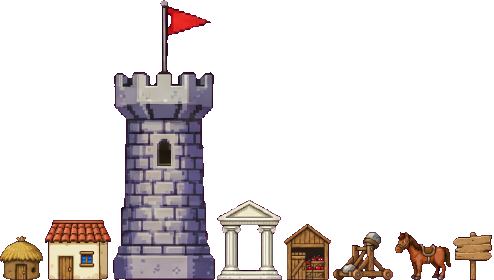
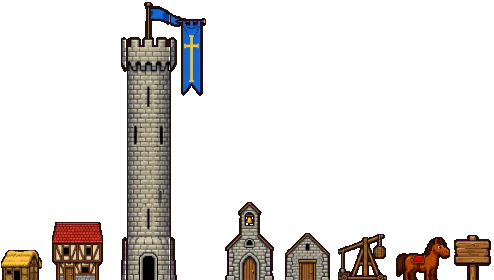
Medieval era art: hero1, Pikemen raider1, town props1
- hero1.png redrawn at 64x66: medieval foot soldier with sword wind-up and slash frames
- raider1.png: new Pikemen sprites
- props1.png: thatched cottage, half-timbered house, castle keep with banner, chapel, barn, trebuchet
- sheet cell widths are now read from each image, so 50px and 64px hero sheets both work

Claude-Session: https://claude.ai/code/session_01WpNNjGwHMrt9LhtBqQYUhi

Changed region(s): [[0.0, 0.0, 1.0, 1.0]]

diff --git a/index.html b/index.html
@@ -1075,7 +1075,8 @@ for (let e = 1; e <= 4; e++) {
   ATLAS['hero' + e] = { ...ATLAS.hero, cw: 50, ax: 25, src: `assets/hero${e}.png` };
   ATLAS['raider' + e] = { ...ATLAS.raider, src: `assets/raider${e}.png` };
 }
-for (const k in ATLAS) { const a = ATLAS[k]; a.img = new Image(); a.img.onload = () => { a.ok = true; }; a.img.src = a.src; }
+// cell width comes from the sheet itself, so redrawn 64px era sheets and older 50px ones both work
+for (const k in ATLAS) { const a = ATLAS[k]; a.img = new Image(); a.img.onload = () => { const n = Object.keys(a.f).length; if (a.img.width % n === 0) { a.cw = a.img.width / n; a.ax = a.cw / 2; } a.ok = true; }; a.img.src = a.src; }
 const TILE_M = {"grass":{"x":0,"w":32,"h":32},"earth":{"x":32,"w":32,"h":32},"plank":{"x":64,"w":32,"h":18},"canopy":{"x":96,"w":32,"h":32},"trunk":{"x":128,"w":32,"h":32},"bridge":{"x":160,"w":32,"h":42},"stone":{"x":192,"w":32,"h":32},"battlement":{"x":224,"w":32,"h":32}};
 const PROP_M = {"hut":{"x":0,"w":43,"h":44},"house":{"x":45,"w":66,"h":60},"tower":{"x":113,"w":102,"h":280},"temple":{"x":217,"w":65,"h":80},"granary":{"x":284,"w":47,"h":56},"catapult":{"x":333,"w":60,"h":48},"horse":{"x":395,"w":56,"h":48},"sign":{"x":453,"w":39,"h":48}};
 const PROP_H = Math.max(...Object.values(PROP_M).map(v => v.h));
@@ -1451,7 +1452,9 @@ function heroFrame() {
   if (P.hurtT > 0) return 'hurt';
   if (P.shootT > 0) return ranged() === 'bow' ? 'spearready' : 'shove';
   if (P.atk > 0) {
-    if (wpn === 'club' && heroKey() === 'hero') return P.atk > 10 ? 'clubwind' : P.atk > 3 ? 'attack' : 'shove'; // wind up, smash into the ground, follow through
+    const wide = ATLAS[heroKey()].cw === 64; // the redrawn sheets have their own wind-up and strike frames
+    if (wpn === 'sword' && wide) return P.atk > 10 ? 'clubwind' : 'attack';
+    if (wpn === 'club' && wide) return P.atk > 10 ? 'clubwind' : P.atk > 3 ? 'attack' : 'shove'; // wind up, smash into the ground, follow through
     if (wpn === 'club' || wpn === 'pick') return P.atk > 11 ? 'clubwind' : 'shove'; // wind up, then the arm swings forward with the club drawn over it
     if (wpn === 'sword') return 'shove';
     return P.atk > 11 ? 'shove' : P.atk > 3 ? 'spearthrust' : 'spearready';
@@ -1630,7 +1633,7 @@ function drawPlayer() {
     ctx.save(); ctx.translate(x + P.face * 3, y - 15.5); ctx.scale(P.face, 1); ctx.rotate(-1.7 + ease * 2.3);
     drawPickaxe(); ctx.restore();
   }
-  if (wpnNow() === 'club' && heroKey() !== 'hero' && P.atk > 0 && P.atk <= 11) {
+  if (wpnNow() === 'club' && ATLAS[heroKey()].cw !== 64 && P.atk > 0 && P.atk <= 11) {
     const k = Math.min(1, (11 - P.atk) / 4), ease = 1 - (1 - k) * (1 - k);
     const ang = -1.7 + ease * 2.1;
     ctx.save(); ctx.translate(x + P.face * 3, y - 15.5); ctx.scale(P.face, 1); ctx.rotate(ang);
@@ -1641,7 +1644,7 @@ function drawPlayer() {
     ctx.restore();
   }
   // sword blade (Iron Working) during a swing
-  if (wpnNow() === 'sword' && P.atk > 3 && P.atk < 12) {
+  if (wpnNow() === 'sword' && ATLAS[heroKey()].cw !== 64 && P.atk > 3 && P.atk < 12) {
     ctx.save(); ctx.translate(Math.round(x), Math.round(y)); ctx.scale(P.face, 1);
     px(6, -17, 3, 3, '#6b4426'); px(9, -16.5, 13, 2, '#d7dde2'); px(9, -16.5, 13, 1, '#ffffff'); px(8, -19, 1, 7, '#b98a24');
     ctx.restore();

diff --git a/tools/build_era_hero.py b/tools/build_era_hero.py
@@ -1,0 +1,57 @@
+"""Build an era hero sheet (64x66 cells, the hero.png frame order) from Gemini crops.
+Each source image is scaled so the soldier's helmet/head comes out the same width,
+since Gemini draws the character at a different size in every image.
+usage: build_era_hero.py out.png map.json
+map.json: {"frames": {"idle": "mA_00", ...}, "head_px": 12, "head_mode": "grey"}"""
+import sys, json
+import numpy as np
+from PIL import Image
+sys.path.insert(0, '/home/claude/art/tools')
+from pack import *
+from build_hero import breathe, blink, draw_star
+
+ORDER = ['idle', 'run0', 'run1', 'run2', 'run3', 'jump', 'fall', 'attack', 'idle2', 'blink', 'hurt', 'wall',
+         'clubwind', 'shove', 'spearthrust', 'spearready', 'run4', 'run5', 'run6']
+CW, CH = 64, 66
+
+def head_width(a, mode):
+    al = a[..., 3] > 0
+    ys = np.nonzero(al.any(1))[0]; t, b = ys.min(), ys.max()
+    rgb = a[..., :3].astype(int)
+    if mode == 'grey':
+        m = (rgb.max(-1) - rgb.min(-1) < 30) & (rgb.mean(-1) > 70) & (rgb.mean(-1) < 200) & al
+    else:
+        m = al
+    band = m[t:t + int(.18 * (b - t))]
+    xs = np.nonzero(band.any(0))[0]
+    return (xs.max() - xs.min()) if len(xs) else None
+
+def build(out, cfg):
+    frames = cfg['frames']; mode = cfg.get('head_mode', 'grey'); target = cfg['head_px']
+    load = lambda n: clean(np.array(Image.open(f'/home/claude/art/cut/{n}.png')))
+    groups = {}
+    for n in set(frames.values()):
+        groups.setdefault(n.rsplit('_', 1)[0], []).append(n)
+    gscale = {}
+    for g, names in groups.items():
+        ws = [w for w in (head_width(load(n), mode) for n in names) if w]
+        gscale[g] = target / np.median(ws)
+    gscale.update(cfg.get('scale_override', {}))
+    cells = []
+    for name in ORDER:
+        src = frames[name]; s = gscale[src.rsplit('_', 1)[0]] * cfg.get('frame_scale', {}).get(name, 1)
+        a = load(src)
+        if a.shape[1] * s + 2 > CW: s = (CW - 2) / a.shape[1]
+        g = downscale(a, s)
+        g = defringe(boost(g, 1.12, 1.0))
+        g = add_outline(fill_small_holes(g, 14))
+        if name == 'idle2' and frames[name] == frames['idle']: g = breathe(g)
+        if name == 'blink' and frames[name] == frames['idle']: g = blink(g)
+        c, clipped, off = place(CW, CH, g, anchor_x(g))
+        print(name, src, g.shape[1], g.shape[0], 'clipped' if clipped else '')
+        cells.append(c)
+    Image.fromarray(np.concatenate(cells, 1), 'RGBA').save(out)
+    print({k: round(v, 4) for k, v in gscale.items()})
+
+if __name__ == '__main__':
+    build(sys.argv[1], json.load(open(sys.argv[2])))

diff --git a/tools/build_props.py b/tools/build_props.py
@@ -1,0 +1,24 @@
+"""Pack props into the game's props sheet: each prop is fitted to its slot and stands on the bottom edge."""
+import sys, numpy as np
+from PIL import Image
+sys.path.insert(0, '/home/claude/art/tools')
+from pack import *
+SLOTS = [('hut', 0, 43, 44), ('house', 45, 66, 60), ('tower', 113, 102, 280), ('temple', 217, 65, 80),
+         ('granary', 284, 47, 56), ('catapult', 333, 60, 48), ('horse', 395, 56, 48), ('sign', 453, 39, 48)]
+H = 280
+def build(out, srcs):
+    sheet = np.zeros((H, 494, 4), np.uint8)
+    for name, x0, w, h in SLOTS:
+        src = srcs[name]
+        a = np.array(Image.open(src).convert('RGBA'))
+        if not src.endswith('_cell.png'): a = clean(a)
+        ys, xs = np.nonzero(a[..., 3] > 0); a = a[ys.min():ys.max() + 1, xs.min():xs.max() + 1]
+        s = min((w - 2) / a.shape[1], (h - 2) / a.shape[0])
+        g = downscale(a, s); g = defringe(boost(g, 1.1, 1.0)); g = add_outline(fill_small_holes(g, 6))
+        gh, gw = g.shape[:2]
+        ox = x0 + (w - gw) // 2; oy = H - gh
+        reg = sheet[oy:oy + gh, ox:ox + gw]; m = g[..., 3] > 0; reg[m] = g[m]
+        print(name, gw, gh)
+    Image.fromarray(sheet, 'RGBA').save(out)
+if __name__ == '__main__':
+    import json; build(sys.argv[1], json.loads(sys.argv[2]))

diff --git a/tools/extract.py b/tools/extract.py
@@ -37,9 +37,15 @@ def extract(path, maxy=None, min_area=1500):
         crop = a[sl].copy()
         m = fg[sl] & (lab[sl] == i + 1)
         crop[..., 3] = np.where(m, 255, 0)
-        out.append((sl[1].start, crop))
+        out.append(((sl[0].start + sl[0].stop) / 2, sl[1].start, crop))
+    # reading order: rows top to bottom (a new row when the centre drops by > 40% of a sprite), then left to right
     out.sort(key=lambda t: t[0])
-    return [c for _, c in out]
+    rows, cur = [], []
+    for o in out:
+        if cur and o[0] - cur[-1][0] > 0.4 * o[2].shape[0]: rows.append(cur); cur = []
+        cur.append(o)
+    if cur: rows.append(cur)
+    return [o[2] for r in rows for o in sorted(r, key=lambda t: t[1])]
 
 if __name__ == '__main__':
     maxy = int(sys.argv[3]) if len(sys.argv) > 3 else None
